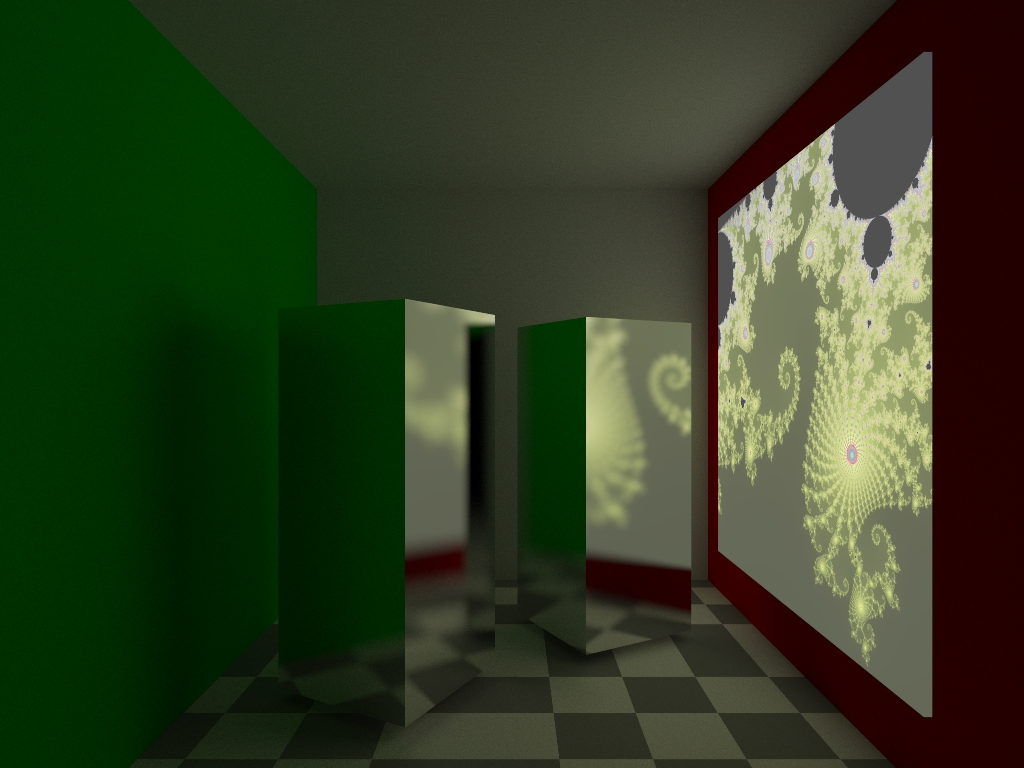
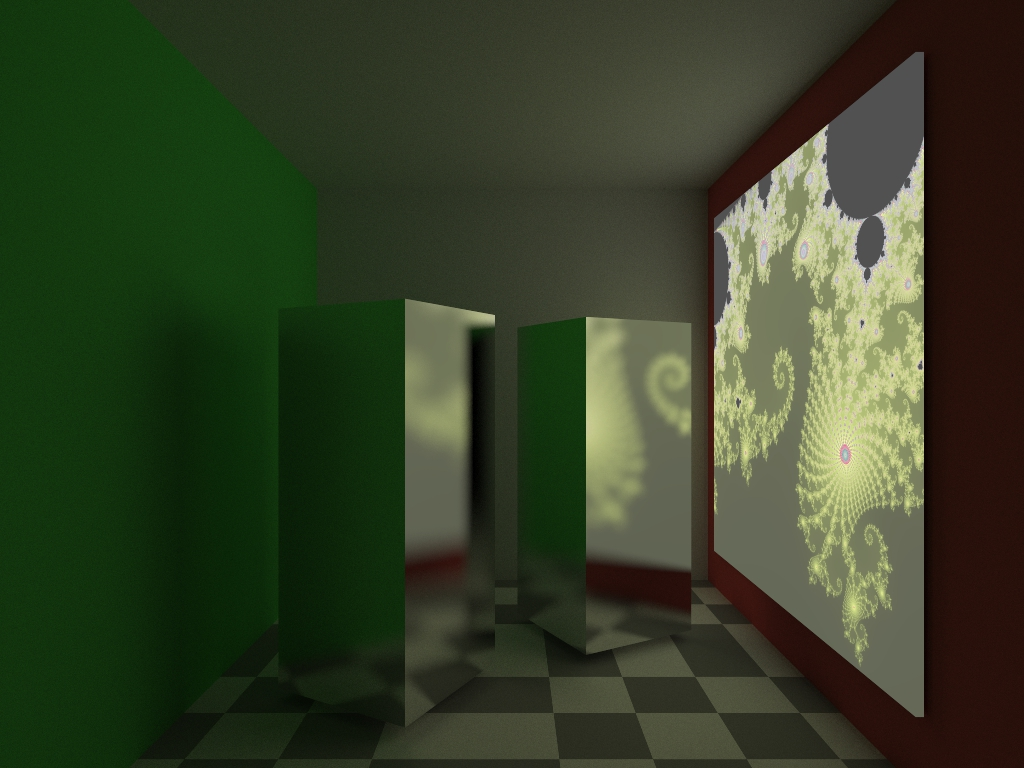
testing new updates

diff --git a/src/detail/example_scenes.h b/src/detail/example_scenes.h
@@ -603,9 +603,9 @@ namespace DETAIL
 
             auto pDiffuseGrey = BASE::createMaterial<Diffuse>(pScene, CORE::Color(0.7, 0.7, 0.7));
             auto pDiffuseCheck = BASE::createMaterial<DiffuseCheckered>(pScene, CORE::Color(0.3, 0.3, 0.3), CORE::Color(0.9, 0.9, 0.9), 4);
-            auto pDiffuseRed = BASE::createMaterial<Diffuse>(pScene, CORE::Color(0.7, 0.0, 0.0));
-            auto pDiffuseGreen = BASE::createMaterial<Diffuse>(pScene, CORE::Color(0.0, 0.7, 0.0));
-            auto pMetal = BASE::createMaterial<Metal>(pScene, CORE::Color(0.90, 0.90, 0.90), 0.05);
+            auto pDiffuseRed = BASE::createMaterial<Diffuse>(pScene, CORE::Color(0.8, 0.1, 0.1));
+            auto pDiffuseGreen = BASE::createMaterial<Diffuse>(pScene, CORE::Color(0.1, 0.8, 0.1));
+            auto pMetal = BASE::createMaterial<Metal>(pScene, CORE::Color(0.90, 0.90, 0.90), 0.07);
             auto pFractalLight = BASE::createMaterial<LightMandlebrot>(pScene);
             
             BASE::createPrimitiveInstance<Disc>(pScene, CORE::axisEulerZYX(0, 0, 0, CORE::Vec(0, 0, 0)), 100, pDiffuseCheck);
@@ -615,7 +615,9 @@ namespace DETAIL
             BASE::createPrimitiveInstance<Disc>(pScene, CORE::axisEulerZYX(pi/2, 0, 0, CORE::Vec(50, 50, 0)), 100, pDiffuseRed);
             BASE::createPrimitiveInstance<Box>(pScene, CORE::axisEulerZYX(0, 0.5, 0, CORE::Vec(18, 32, -15)), CORE::Vec(25, 60, 25), pMetal);
             BASE::createPrimitiveInstance<Box>(pScene, CORE::axisEulerZYX(0, -0.5, 0, CORE::Vec(-20, 32, 10)), CORE::Vec(25, 60, 25), pMetal);
-            BASE::createPrimitiveInstance<Rectangle>(pScene, CORE::axisEulerZYX(pi/2, 0, 0, CORE::Vec(49.99, 50, 0)), 80, 80, pFractalLight);
+
+            BASE::createPrimitiveInstance<Rectangle>(pScene, CORE::axisEulerZYX(-pi/2, 0, 0, CORE::Vec(49.1, 50, 0)), 80, 80, pDiffuseGrey);
+            BASE::createPrimitiveInstance<Rectangle>(pScene, CORE::axisEulerZYX(pi/2, 0, 0, CORE::Vec(49, 50, 0)), 80, 80, pFractalLight);
             
 
             pScene->build();   // build BVH

diff --git a/raytracer/main.cpp b/raytracer/main.cpp
@@ -34,7 +34,7 @@ class MainWindow : public QMainWindow
          m_iWidth(1024),
          m_iHeight(768),
          m_iNumWorkers(std::max(std::thread::hardware_concurrency() * 2, 2u)),
-         m_iMaxSamplesPerPixel(1024),
+         m_iMaxSamplesPerPixel(1000),
          m_iMaxTraceDepth(32),
          m_fColorTollerance(0.0f),
          m_uRandSeed(1)
